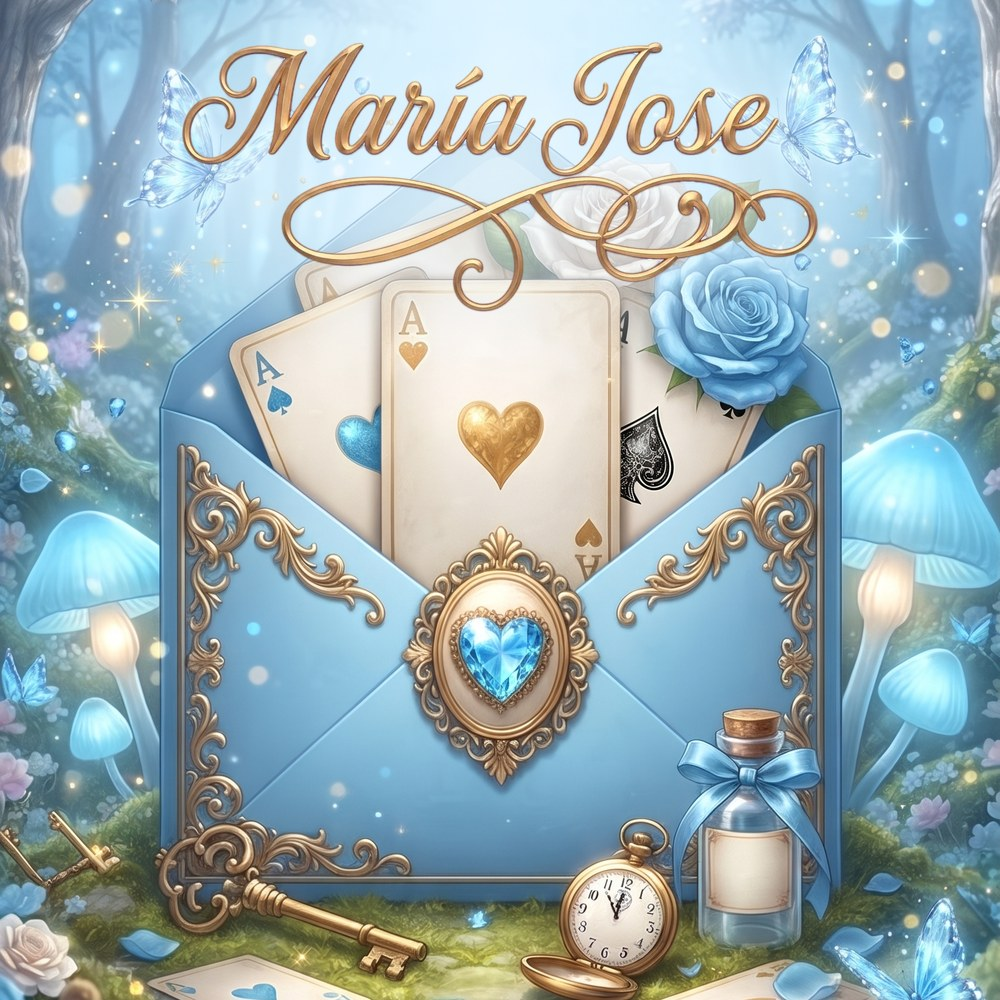
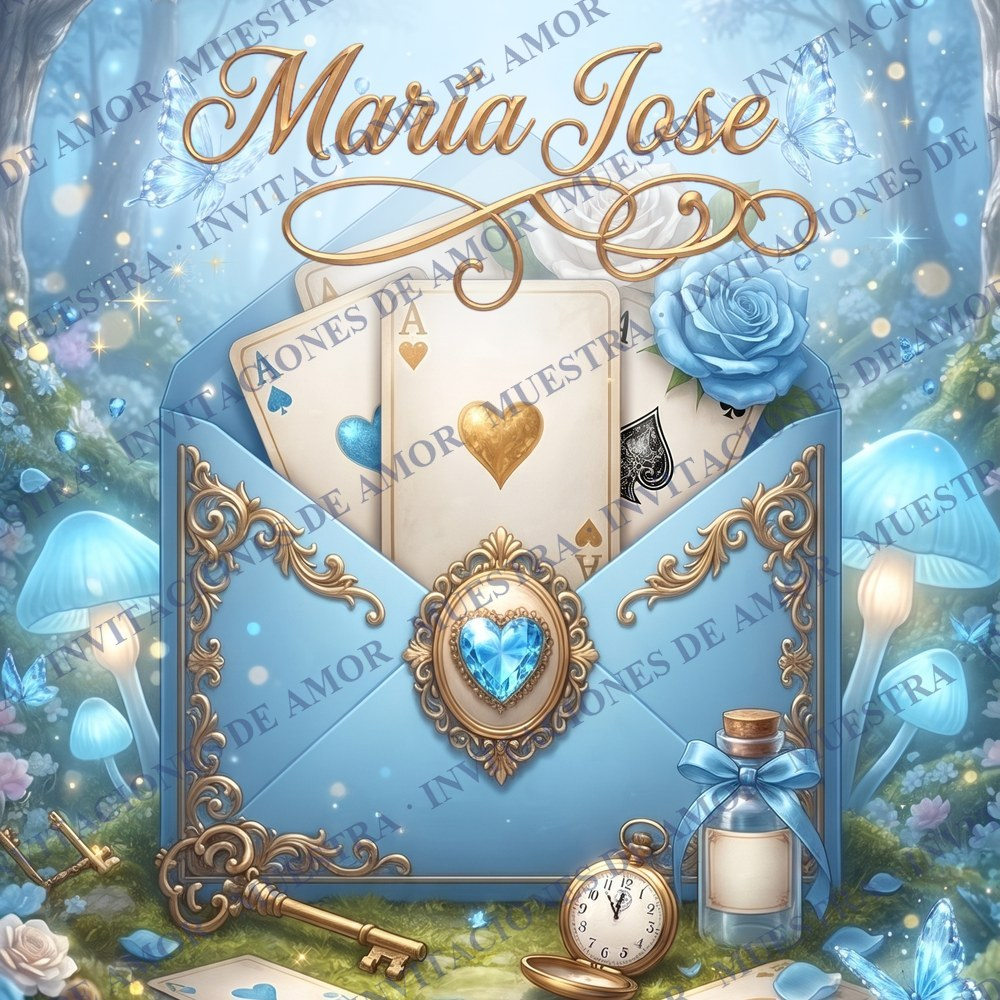
XV María Jose v2: marca de agua también en la vista previa de WhatsApp

diff --git a/borradores/xv-maria-jose-v2-f488f4/index.html b/borradores/xv-maria-jose-v2-f488f4/index.html
@@ -18,14 +18,14 @@
 <meta property="og:title" content="Mis XV Años · María Jose">
 <meta property="og:description" content="Estás invitado a mis XV años. Toca el sobre para abrir mi invitación ✨">
 <meta property="og:url" content="https://eleganciadeamor.com/borradores/xv-maria-jose-v2-f488f4/">
-<meta property="og:image" content="https://eleganciadeamor.com/borradores/xv-maria-jose-v2-f488f4/recursos/vista-previa.jpg?v=1">
-<meta property="og:image:secure_url" content="https://eleganciadeamor.com/borradores/xv-maria-jose-v2-f488f4/recursos/vista-previa.jpg?v=1">
+<meta property="og:image" content="https://eleganciadeamor.com/borradores/xv-maria-jose-v2-f488f4/recursos/vista-previa.jpg?v=2">
+<meta property="og:image:secure_url" content="https://eleganciadeamor.com/borradores/xv-maria-jose-v2-f488f4/recursos/vista-previa.jpg?v=2">
 <meta property="og:image:type" content="image/jpeg">
 <meta property="og:image:width" content="1000">
 <meta property="og:image:height" content="1000">
 <meta property="og:image:alt" content="Sobre celeste abierto con naipes y rosas en un bosque encantado de Alicia en el País de las Maravillas">
 <meta name="twitter:card" content="summary">
-<meta name="twitter:image" content="https://eleganciadeamor.com/borradores/xv-maria-jose-v2-f488f4/recursos/vista-previa.jpg?v=1">
+<meta name="twitter:image" content="https://eleganciadeamor.com/borradores/xv-maria-jose-v2-f488f4/recursos/vista-previa.jpg?v=2">
 <link rel="icon" href="recursos/vista-previa.jpg">
 <!-- Lo primero que baja: las puertas (si cambias estas imágenes en el CONFIG, cambia también estas 3 líneas) -->
 <link rel="preload" href="recursos/apertura-marco.webp" as="image" fetchpriority="high">
